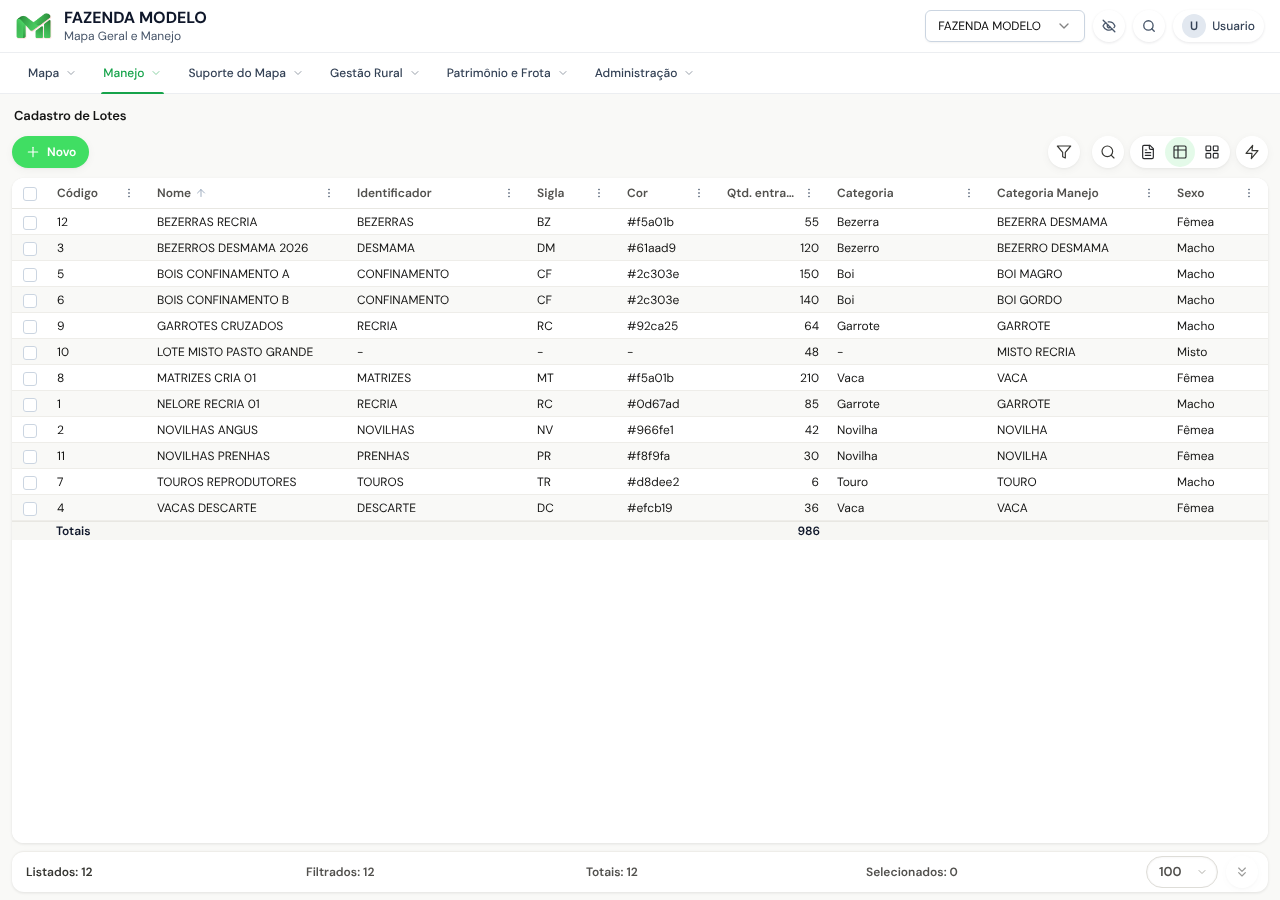
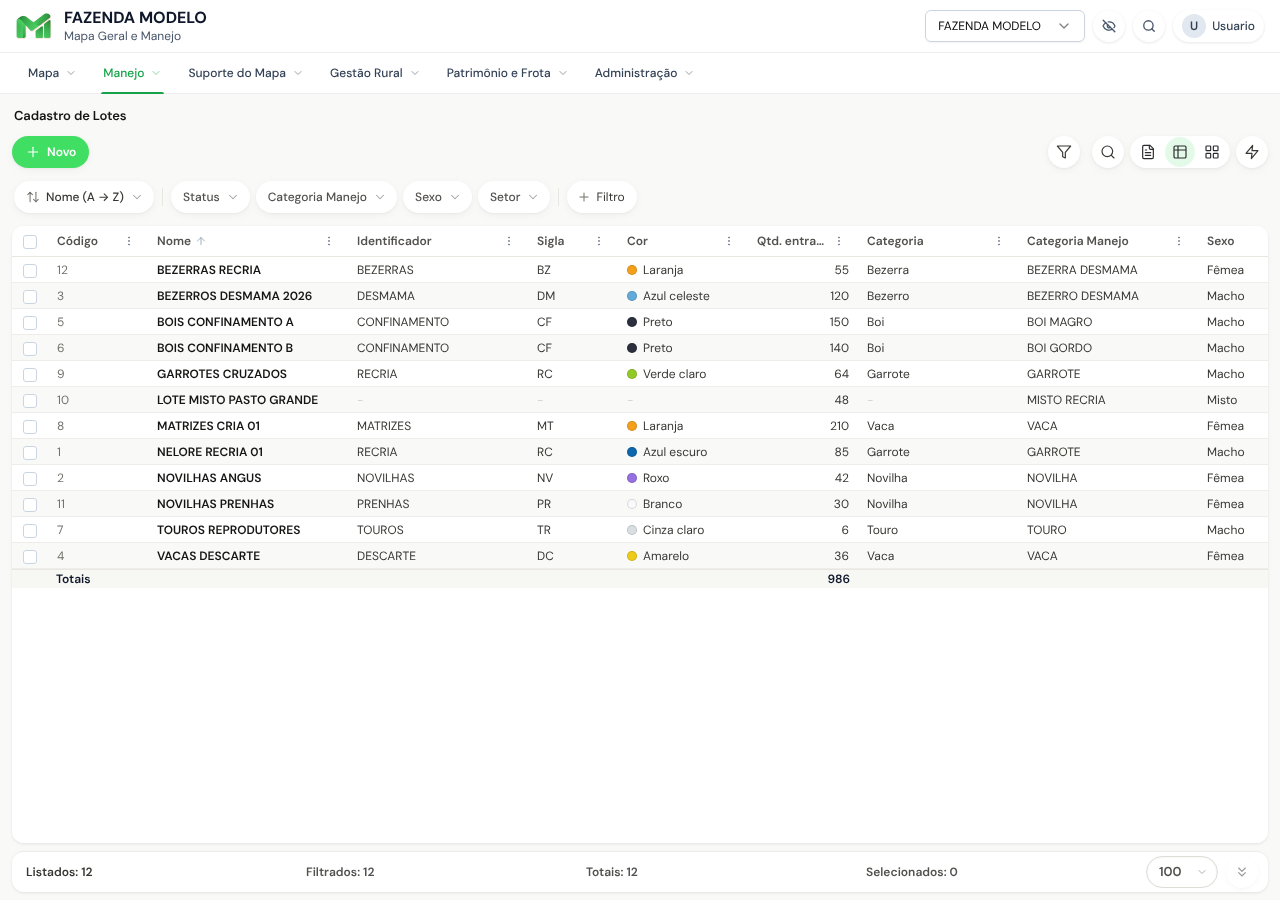
feat(base1): menus e listas no modelo novo, cards com até 8 campos no celular e docs (D-PROD-161)
Claude-Session: https://claude.ai/code/session_01UazgFgDf1f5UbiFMYmmzCM

diff --git a/src/styles/base1-design.css b/src/styles/base1-design.css
@@ -729,3 +729,65 @@
     flex-basis: 40px;
   }
 }
+
+/* ── Menus e listas no mesmo modelo: janela branca, linhas sem risco, realce arredondado ── */
+.cadastro-b1.mg-b1-glass-pop:is(.mg-mais-opcoes, .w-52):not(#mk-a):not(#mk-b),
+.cadastro-b1 .mg-search-suggest:not(#mk-a):not(#mk-b),
+.cadastro-b1.cmd-panel.mg-pill-select-panel:not(#mk-a):not(#mk-b),
+.cadastro-b1.fpc.fpc--pop:not(#mk-a):not(#mk-b) {
+  padding: 4px;
+  border: 1px solid #e8e7e2 !important;
+  border-radius: 12px;
+  background: #fff !important;
+  box-shadow: 0 10px 30px rgba(0, 0, 0, 0.1), 0 1px 3px rgba(0, 0, 0, 0.06) !important;
+  -webkit-backdrop-filter: none;
+  backdrop-filter: none;
+}
+.cadastro-b1.mg-b1-glass-pop:is(.mg-mais-opcoes, .w-52) .mg-b1-menuitem:not(#mk-a):not(#mk-b),
+.cadastro-b1.fpc--pop .fpc__item:not(#mk-a):not(#mk-b),
+.cadastro-b1.mg-pill-select-panel .cmd-option:not(#mk-a):not(#mk-b) {
+  min-height: 32px;
+  padding-top: 4px;
+  padding-bottom: 4px;
+  border: 0 !important;
+  border-radius: 8px;
+  background: transparent;
+  color: #141413;
+  font-weight: 400;
+}
+.cadastro-b1.mg-b1-glass-pop:is(.mg-mais-opcoes, .w-52) .mg-b1-menuitem:not(#mk-a):not(#mk-b):hover:not(:disabled),
+.cadastro-b1.fpc--pop .fpc__item:not(#mk-a):not(#mk-b):hover,
+.cadastro-b1.mg-pill-select-panel .cmd-option:not(#mk-a):not(#mk-b):hover,
+.cadastro-b1 .mg-search-suggest .mg-search-suggest__item:not(#mk-a):not(#mk-b):is(:hover, .is-hi, .is-active, [aria-selected="true"]) {
+  background: #f1f1ee;
+}
+.cadastro-b1.mg-b1-glass-pop:is(.mg-mais-opcoes, .w-52) .mg-b1-menuitem:not(#mk-a):not(#mk-b) svg {
+  color: #52514e;
+}
+.cadastro-b1 .mg-search-suggest .mg-search-suggest__item:not(#mk-a):not(#mk-b) {
+  border: 0 !important;
+  border-radius: 8px;
+  background: transparent;
+}
+.cadastro-b1.mg-pill-select-panel .cmd-panel-options:not(#mk-a):not(#mk-b) {
+  padding: 0;
+  border: 0;
+  background: transparent;
+  box-shadow: none;
+}
+.cadastro-b1.fpc--pop .fpc__lista:not(#mk-a):not(#mk-b) {
+  padding: 0;
+  border: 0;
+  border-radius: 0;
+  background: transparent;
+  box-shadow: none;
+}
+@media (max-width: 1023px) {
+  .cadastro-b1.mg-b1-glass-pop:is(.mg-mais-opcoes, .w-52) .mg-b1-menuitem:not(#mk-a):not(#mk-b),
+  .cadastro-b1.fpc--pop .fpc__item:not(#mk-a):not(#mk-b),
+  .cadastro-b1.mg-pill-select-panel .cmd-option:not(#mk-a):not(#mk-b) {
+    min-height: 40px;
+    padding-top: 6px;
+    padding-bottom: 6px;
+  }
+}

diff --git a/src/hooks/useCadastroCardsPrefs.js b/src/hooks/useCadastroCardsPrefs.js
@@ -6,13 +6,13 @@ import { useCallback, useMemo, useState } from "react";
  * @param {string} storageKey prefixo localStorage da grade
  * @param {string[]} defaultFieldKeys colunas padrão nos cards
  */
-/** Celular mostra 3 campos por card por padrão (protótipo v2, D-PROD-88); escolha salva vale sempre. */
+/** Celular mostra até 8 campos por card por padrão — "o essencial" do design (D-PROD-161, antes 3 pela D-PROD-88); escolha salva vale sempre. */
 const camposPadrao = (keys) => {
   const celular = typeof window !== "undefined" && typeof window.matchMedia === "function" && window.matchMedia("(max-width: 639px)").matches;
   if (!celular) return keys;
-  // Nome e código já aparecem no topo do card (Base1Cards): contam 3 campos além deles.
+  // Nome e código já aparecem no topo do card (Base1Cards): contam 8 campos além deles.
   const noTopo = new Set(["numero", "nome", "name", "code"]);
-  return [...keys.filter((k) => noTopo.has(k)), ...keys.filter((k) => !noTopo.has(k)).slice(0, 3)];
+  return [...keys.filter((k) => noTopo.has(k)), ...keys.filter((k) => !noTopo.has(k)).slice(0, 8)];
 };
 
 export function useCadastroCardsPrefs(storageKey, defaultFieldKeys) {

diff --git a/docs/engineering/DECISIONS.md b/docs/engineering/DECISIONS.md
@@ -5820,7 +5820,10 @@ Em cada cadeia: bloqueio antes do clique, exclusão do dependente, desbloqueio s
   - **Camada nova** `src/styles/base1-design.css`, carregada antes de `base1-tipografia.css` e sem nenhum `font-size`: botões neutros grafite com sombra macia, ícones com traço 1,75 (16/20/22 px por largura), tabela só com linhas horizontais e cabeçalho branco, rodapé em tira fina, campo de registro em caixa branca com borda e estados (passar o mouse, foco verde com anel, erro vermelho, travado cinza, leitura só com a linha de baixo).
   - **Abas (`Base1PanelTabs`):** no desktop, pílulas num grupo branco e painel em cartão com o nome da aba; abaixo de 1024 px não há abas — cada painel vira uma seção empilhada. A aba com campo inválido ganha um ponto vermelho.
   - **Erro de campo (`B1Field`):** ícone + texto; erro booleano mostra "Campo obrigatório" (antes aparecia "true").
-- **Fora desta fatia (existe no design, não foi portado):** faixa de filtros rápidos e pílula de ordenação; listas de seleção no modelo novo; cards em duas colunas com tag "Inativo"; bolinha de cor na coluna Cor; cabeçalho do celular; movimento de abrir/fechar; reorganização dos campos do Lote dentro da aba Geral; rodapé em palavras ("12 lotes · 1 selecionado") — este último contraria o teste PAR6 (`mobileParidadeV2`) e pede decisão própria.
+- **Lista:** a coluna de título fica em destaque, o código discreto e o vazio apagado (`b1-td--nome/--cod/--vazio`, mesma regra de título/código dos cards); tipo de célula `cor` (amostra + nome). Cards com seleção à direita, "rótulo do código + valor" e tag "Inativo" no subtítulo, campos em duas colunas com o rótulo em cima; no celular o padrão sobe de 3 para até 8 campos (**revoga o item dos 3 campos da D-PROD-88**). Lotes passa a ter campos padrão curados.
+  - **Filtros rápidos (`FiltrosRapidos`):** faixa de pílulas acima da lista no desktop e no tablet — Ordenar em palavras simples, uma pílula por campo com lista de marcar e contagem, "+ Filtro" para escolher as pílulas (guardado por tela em `localStorage`) e "Limpar filtros". Quem desenha é a grade, dona de `headerFilters` e da ordenação, num lugar oferecido pelo chrome: não há segundo estado de filtro. A tela pode informar as pílulas iniciais (`quickFilterIds`); sem isso o motor deriva (situação + colunas com 2 a 12 valores).
+  - **Menus e listas:** Mais opções, menu da coluna, Filtrar por campo, sugestões da pesquisa e seletor de quantidade na mesma janela branca, sem riscos entre linhas.
+- **Fora desta fatia (existe no design, não foi portado):** condição/operadores dentro do filtro rápido (continuam no filtro avançado da coluna) e a lista "Filtros" do celular; listas de seleção dos campos do formulário no modelo novo; cabeçalho do celular; movimento de abrir/fechar; reorganização dos campos do Lote dentro da aba Geral; rodapé em palavras ("12 lotes · 1 selecionado") — este último contraria o teste PAR6 (`mobileParidadeV2`) e pede decisão própria.
 - **Não muda:** Mapa Geral, lançamentos do mapa (`.mk-lanc`), casca do aplicativo, tamanhos de fonte, dados, rotas e escopo.
 - **Revoga em parte:** D-PROD-149 (fundo `#FAFCFE`) e as cores de texto da D-PROD-150, só dentro do motor Base1.
 - **Evidência:** `docs/engineering/evidencias/base1-design-d161/`; teste `tests/smoke/base1DesignD161.test.jsx`; relatório `docs/engineering/UI-BASE1-DESIGN-D161-REPORT.md`.

diff --git a/docs/engineering/UI-BASE1-DESIGN-D161-REPORT.md b/docs/engineering/UI-BASE1-DESIGN-D161-REPORT.md
@@ -13,7 +13,11 @@
 | Camada do design (tokens, botões, ícones, tabela, rodapé, abas, campo) | `src/styles/base1-design.css` (novo), `src/index.css` |
 | Abas em pílula, cartão com título, seções empilhadas abaixo de 1024 px, ponto de pendência | `src/components/cadastro/base1/Base1PanelTabs.jsx` |
 | Mensagem de erro com ícone; "Campo obrigatório" no lugar de "true" | `src/components/cadastro/base1/B1Field.jsx` |
-| Teste | `tests/smoke/base1DesignD161.test.jsx` |
+| Papéis de célula (título, código, vazio), tipo de célula `cor`, tag "Inativo" | `Base1Grid.jsx`, `CadastroBase1Grade.jsx`, `cadastroBase1CellKind.jsx`, `Base1Cards.jsx` |
+| Faixa de filtros rápidos e pílula de ordenação | `FiltrosRapidos.jsx` (novo), `CadastroListaChrome.jsx`, `CadastroBase1Grade.jsx` |
+| Lotes: coluna Cor com amostra, campos padrão dos cards, pílulas iniciais | `src/components/lotes/TabelaLotes.jsx`, `src/pages/CadastroLotes.jsx` |
+| Cards no celular: até 8 campos por padrão | `src/hooks/useCadastroCardsPrefs.js` |
+| Testes | `tests/smoke/base1DesignD161.test.jsx`, `tests/smoke/base1FiltrosRapidos.test.jsx` |
 
 Como o porte é no motor, vale para todas as telas Base1. Só três formulários usam abas (Lotes, Bens, Empresa); os demais recebem paleta, campo, tabela e botões.
 
@@ -23,17 +27,19 @@ O design traz uma cópia do CSS do sistema já recolorida. Um script comparou re
 
 ## O que ficou de fora
 
-Está no design e não entrou nesta fatia:
+Está no design e não entrou:
 
-- faixa de filtros rápidos, pílula de ordenação e "+ Filtro";
-- listas de seleção e menus no modelo novo (janela branca, pesquisa com linha);
-- cards em duas colunas com tag "Inativo"; bolinha de cor na coluna Cor; nome em negrito na tabela;
+- condição/operadores dentro do filtro rápido (seguem no filtro avançado do menu da coluna) e a lista "Filtros" do celular (no celular não há faixa; o funil abre o "Filtrar por campo" de antes);
+- setas e esmaecimento na rolagem lateral da faixa;
+- listas de seleção dos campos do formulário no modelo novo e seleção múltipla em janela;
 - cabeçalho do celular e demais mudanças da casca;
 - movimento de abrir e fechar;
 - campos do Lote reorganizados dentro da aba Geral;
 - rodapé em palavras ("12 lotes · 1 selecionado") — contraria o teste PAR6 de `mobileParidadeV2`.
 
-Motivo: a leitura em paralelo do motor foi interrompida pelo limite de uso da conta; o que entrou é o que pôde ser conferido no navegador por uma pessoa só.
+Limitações conhecidas da faixa de filtros: filtros e ordenação continuam locais à grade (como antes) e somem ao abrir um registro; nas telas paginadas no servidor o filtro vale para as linhas já carregadas (como o filtro de coluna); o total da janela usa a palavra "registros".
+
+Motivo do recorte: a leitura em paralelo do motor foi interrompida pelo limite de uso da conta; o que entrou é o que pôde ser conferido no navegador.
 
 ## Diferenças em relação ao design
 
